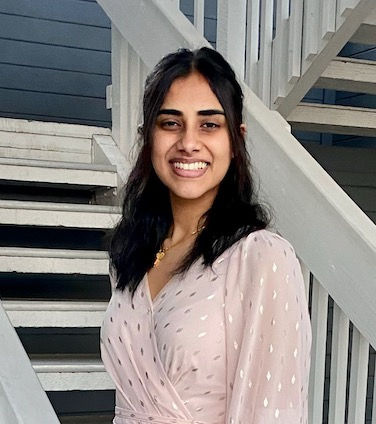
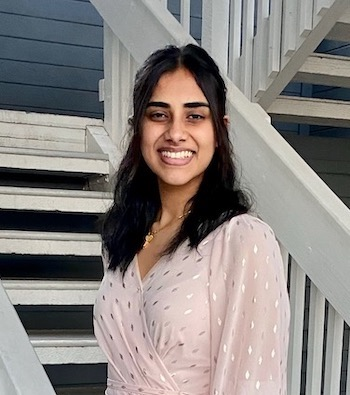
fixed landing page and jasneet pics

diff --git a/index.html b/index.html
@@ -34,7 +34,7 @@
           </div>
           <li class="navbar-item"><a class="navbar-link" href="about.html">About Us</a></li>
           <li class="navbar-item"><a class="navbar-link" href="contact.html">Contact</a></li>
-          <li class="navbar-item"><a class="navbar-link" href="https://berkeley.qualtrics.com/jfe/preview/SV_74M6q6XsXhAU6Mt?Q_CHL=preview&Q_SurveyVersionID=current"><div id="nav-survey-button">Take the survey</div></a></li>
+          <li class="navbar-item"><a class="navbar-link" href="https://berkeley.qualtrics.com/jfe/form/SV_74M6q6XsXhAU6Mt"><div id="nav-survey-button">Take the survey</div></a></li>
         </ul>
       </div>
     </nav>

diff --git a/about.html b/about.html
@@ -114,7 +114,7 @@
       <div class="bio-card">
         <div class="bio-card-inner">
           <div class="bio-card-front">
-            <div class="bio-card-pic"><img src="./assets/images/jasneet.png" alt="Headshot of Jasneet Bajwa"></div>
+            <div class="bio-card-pic"><img src="./assets/images/jasneet.jpeg" alt="Headshot of Jasneet Bajwa"></div>
             <div class="bio-card-name">Jasneet Bajwa</div>
             <div class="bio-card-role">Student Researcher</div>
           </div>

diff --git a/assets/styles/style.css b/assets/styles/style.css
@@ -641,6 +641,7 @@ p {
 
 .bio-card-pic img {
   width: 100%;
+  height: 350px;
   border-radius: 5px 5px 0px 0px;
 }
 
